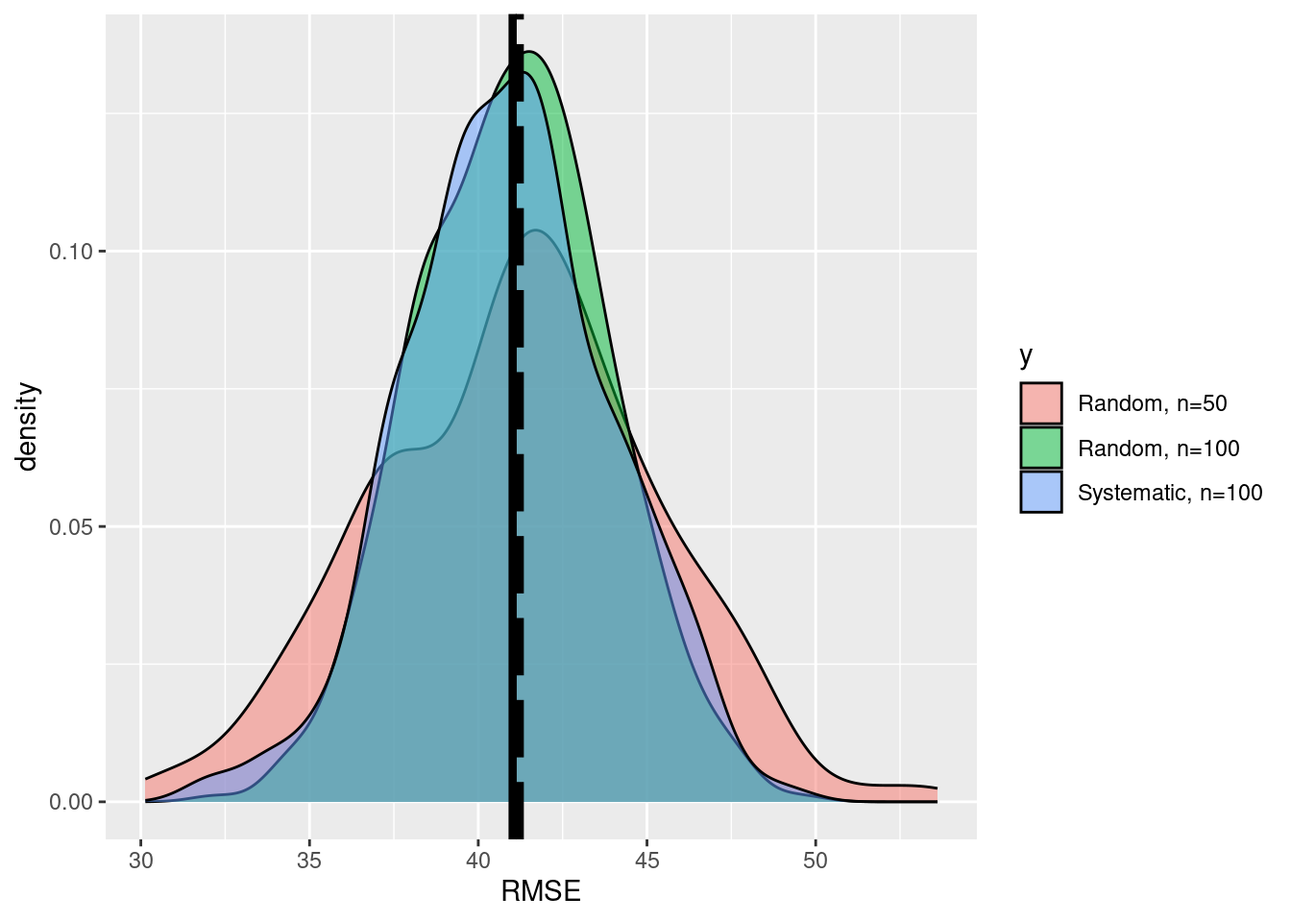
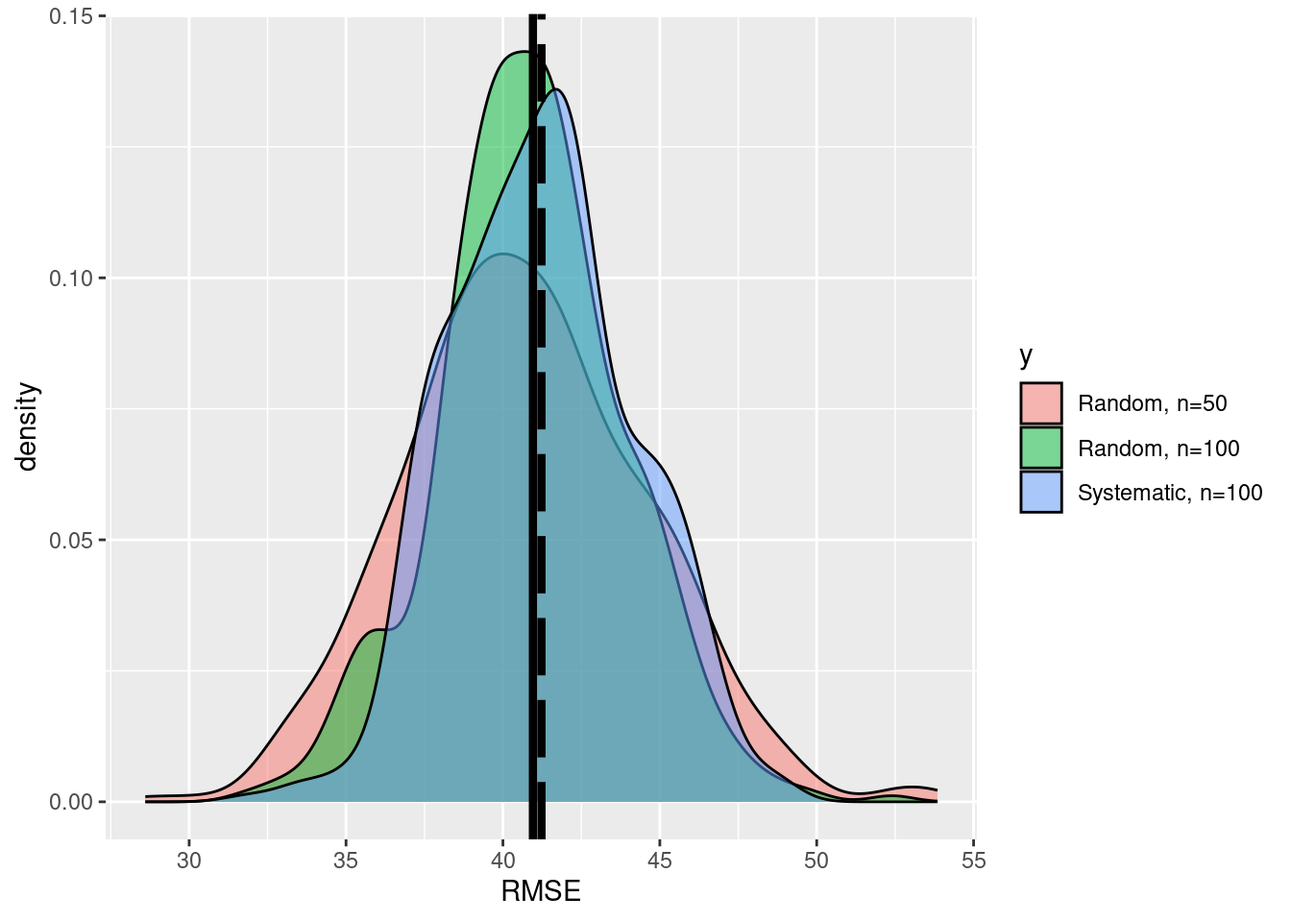
update

diff --git a/docs/paul_tutorial/02_ValidationDataCollection.html b/docs/paul_tutorial/02_ValidationDataCollection.html
@@ -294,6 +294,29 @@ pre > code.sourceCode > span > a:first-child::before { text-decoration: underlin
 
 </header>
 
+<div class="cell">
+<div class="sourceCode cell-code" id="cb1"><pre class="sourceCode r code-with-copy"><code class="sourceCode r"><span id="cb1-1"><a href="#cb1-1" aria-hidden="true" tabindex="-1"></a><span class="fu">library</span>(rmarkdown)</span>
+<span id="cb1-2"><a href="#cb1-2" aria-hidden="true" tabindex="-1"></a></span>
+<span id="cb1-3"><a href="#cb1-3" aria-hidden="true" tabindex="-1"></a><span class="fu">library</span>(sf)</span></code><button title="Copy to Clipboard" class="code-copy-button"><i class="bi"></i></button></pre></div>
+<div class="cell-output cell-output-stderr">
+<pre><code>Linking to GEOS 3.10.2, GDAL 3.4.1, PROJ 8.2.1; sf_use_s2() is TRUE</code></pre>
+</div>
+<div class="sourceCode cell-code" id="cb3"><pre class="sourceCode r code-with-copy"><code class="sourceCode r"><span id="cb3-1"><a href="#cb3-1" aria-hidden="true" tabindex="-1"></a><span class="fu">library</span>(raster)</span></code><button title="Copy to Clipboard" class="code-copy-button"><i class="bi"></i></button></pre></div>
+<div class="cell-output cell-output-stderr">
+<pre><code>Lade nötiges Paket: sp</code></pre>
+</div>
+<div class="cell-output cell-output-stderr">
+<pre><code>The legacy packages maptools, rgdal, and rgeos, underpinning the sp package,
+which was just loaded, will retire in October 2023.
+Please refer to R-spatial evolution reports for details, especially
+https://r-spatial.org/r/2023/05/15/evolution4.html.
+It may be desirable to make the sf package available;
+package maintainers should consider adding sf to Suggests:.
+The sp package is now running under evolution status 2
+     (status 2 uses the sf package in place of rgdal)</code></pre>
+</div>
+<div class="sourceCode cell-code" id="cb6"><pre class="sourceCode r code-with-copy"><code class="sourceCode r"><span id="cb6-1"><a href="#cb6-1" aria-hidden="true" tabindex="-1"></a><span class="fu">library</span>(ggplot2)</span></code><button title="Copy to Clipboard" class="code-copy-button"><i class="bi"></i></button></pre></div>
+</div>
 <section id="introduction" class="level1">
 <h1>Introduction</h1>
 <p>In this tutorial we will explore the principles of design-based sampling. The simulation part is based on a presentation of Gerad Heuveling from Wageningen University, which he gave in the OpenGeoHub Summer School[https://opengeohub.org/summer-school/ogh-summer-school-2021/].</p>
@@ -307,8 +330,8 @@ pre > code.sourceCode > span > a:first-child::before { text-decoration: underlin
 <h1>Data sets</h1>
 <p>For demonstration purposes we will work with a map of forest above ground biomass (AGB) produced by the Joint Research Center(JRC) for the European Union European Commission (Joint Research Centre (JRC) (2020) http://data.europa.eu/89h/d1fdf7aa-df33-49af-b7d5-40d226ec0da3.)</p>
 <p>To provide a synthetic example we will assume that this map (agb_pop) is an error free representation of the population. Additionally we use a second map (agb_model) compiled using a machine learning model (RF) also depicting the AGB distribution.</p>
-<div class="cell" data-hash="02_ValidationDataCollection_cache/html/import_aa19130a3a2993eade1e1589b9086cfe">
-<div class="sourceCode cell-code" id="cb1"><pre class="sourceCode r code-with-copy"><code class="sourceCode r"><span id="cb1-1"><a href="#cb1-1" aria-hidden="true" tabindex="-1"></a>np_boundary <span class="ot">=</span> <span class="fu">st_transform</span>(<span class="fu">st_read</span>(<span class="st">"data/nlp-harz_aussengrenze.gpkg"</span>),<span class="dv">25832</span>)</span></code><button title="Copy to Clipboard" class="code-copy-button"><i class="bi"></i></button></pre></div>
+<div class="cell">
+<div class="sourceCode cell-code" id="cb7"><pre class="sourceCode r code-with-copy"><code class="sourceCode r"><span id="cb7-1"><a href="#cb7-1" aria-hidden="true" tabindex="-1"></a>np_boundary <span class="ot">=</span> <span class="fu">st_transform</span>(<span class="fu">st_read</span>(<span class="st">"data/nlp-harz_aussengrenze.gpkg"</span>),<span class="dv">25832</span>)</span></code><button title="Copy to Clipboard" class="code-copy-button"><i class="bi"></i></button></pre></div>
 <div class="cell-output cell-output-stdout">
 <pre><code>Reading layer `nlp-harz_aussengrenze' from data source 
   `/home/creu/edu/EON/EON2023/paul_tutorial/data/nlp-harz_aussengrenze.gpkg' 
@@ -319,16 +342,16 @@ Dimension:     XY
 Bounding box:  xmin: 591196.6 ymin: 5725081 xmax: 619212.6 ymax: 5751232
 Projected CRS: WGS 84 / UTM zone 32N</code></pre>
 </div>
-<div class="sourceCode cell-code" id="cb3"><pre class="sourceCode r code-with-copy"><code class="sourceCode r"><span id="cb3-1"><a href="#cb3-1" aria-hidden="true" tabindex="-1"></a>agb_pop <span class="ot">&lt;-</span> <span class="fu">raster</span>(<span class="st">"data/agb_np_harz_truth.tif"</span>)</span>
-<span id="cb3-2"><a href="#cb3-2" aria-hidden="true" tabindex="-1"></a></span>
-<span id="cb3-3"><a href="#cb3-3" aria-hidden="true" tabindex="-1"></a>agb_model <span class="ot">&lt;-</span><span class="fu">raster</span>(<span class="st">"data/agb_np_harz_model.tif"</span>)</span></code><button title="Copy to Clipboard" class="code-copy-button"><i class="bi"></i></button></pre></div>
+<div class="sourceCode cell-code" id="cb9"><pre class="sourceCode r code-with-copy"><code class="sourceCode r"><span id="cb9-1"><a href="#cb9-1" aria-hidden="true" tabindex="-1"></a>agb_pop <span class="ot">&lt;-</span> <span class="fu">raster</span>(<span class="st">"data/agb_np_harz_truth.tif"</span>)</span>
+<span id="cb9-2"><a href="#cb9-2" aria-hidden="true" tabindex="-1"></a></span>
+<span id="cb9-3"><a href="#cb9-3" aria-hidden="true" tabindex="-1"></a>agb_model <span class="ot">&lt;-</span><span class="fu">raster</span>(<span class="st">"data/agb_np_harz_model.tif"</span>)</span></code><button title="Copy to Clipboard" class="code-copy-button"><i class="bi"></i></button></pre></div>
 </div>
 <p>If we assume the <span class="math inline">\(z(x_i)=\)</span> agb.pop to be an exact representation of the population we can calculate the Root mean Square Error (RMSE) as the difference between the model predictions <span class="math inline">\(\hat{z(x_i)}\)</span> and the population map with:</p>
 <p><span class="math display">\[
 RMSE = \sqrt{\frac{1}{N}\sum{(z(x_{ctor. Also today there was wind, not good for m3 i})-\hat{z}(x_{i}))^2}}
 \]</span></p>
 <div class="cell">
-<div class="sourceCode cell-code" id="cb4"><pre class="sourceCode r code-with-copy"><code class="sourceCode r"><span id="cb4-1"><a href="#cb4-1" aria-hidden="true" tabindex="-1"></a>RMSE_pop <span class="ot">=</span> <span class="fu">sqrt</span>(<span class="fu">cellStats</span>((agb_pop<span class="sc">-</span>agb_model)<span class="sc">^</span><span class="dv">2</span>, mean))</span></code><button title="Copy to Clipboard" class="code-copy-button"><i class="bi"></i></button></pre></div>
+<div class="sourceCode cell-code" id="cb10"><pre class="sourceCode r code-with-copy"><code class="sourceCode r"><span id="cb10-1"><a href="#cb10-1" aria-hidden="true" tabindex="-1"></a>RMSE_pop <span class="ot">=</span> <span class="fu">sqrt</span>(<span class="fu">cellStats</span>((agb_pop<span class="sc">-</span>agb_model)<span class="sc">^</span><span class="dv">2</span>, mean))</span></code><button title="Copy to Clipboard" class="code-copy-button"><i class="bi"></i></button></pre></div>
 </div>
 <p>By looking at the difference from the “true” AGB and the difference we get a true RMSE of <em>41.23</em> t/ha.</p>
 </section>
@@ -336,52 +359,52 @@ RMSE = \sqrt{\frac{1}{N}\sum{(z(x_{ctor. Also today there was wind, not good for
 <h1>Collect a random sample</h1>
 <p>Since we know the true RMSE, we can test if a random sample estimate has a similar RMSE. We start with a random sample with <span class="math inline">\(n=100\)</span> sample points.</p>
 <div class="cell">
-<div class="sourceCode cell-code" id="cb5"><pre class="sourceCode r code-with-copy"><code class="sourceCode r"><span id="cb5-1"><a href="#cb5-1" aria-hidden="true" tabindex="-1"></a>n<span class="ot">=</span><span class="dv">100</span></span>
-<span id="cb5-2"><a href="#cb5-2" aria-hidden="true" tabindex="-1"></a>p1 <span class="ot">=</span> <span class="fu">st_sample</span>(np_boundary,<span class="at">size=</span>n)</span>
-<span id="cb5-3"><a href="#cb5-3" aria-hidden="true" tabindex="-1"></a><span class="fu">plot</span>(<span class="fu">st_geometry</span>(np_boundary))</span>
-<span id="cb5-4"><a href="#cb5-4" aria-hidden="true" tabindex="-1"></a><span class="fu">plot</span>(p1,<span class="at">add=</span><span class="cn">TRUE</span>,<span class="at">pch=</span><span class="dv">1</span>)</span></code><button title="Copy to Clipboard" class="code-copy-button"><i class="bi"></i></button></pre></div>
+<div class="sourceCode cell-code" id="cb11"><pre class="sourceCode r code-with-copy"><code class="sourceCode r"><span id="cb11-1"><a href="#cb11-1" aria-hidden="true" tabindex="-1"></a>n<span class="ot">=</span><span class="dv">100</span></span>
+<span id="cb11-2"><a href="#cb11-2" aria-hidden="true" tabindex="-1"></a>p1 <span class="ot">=</span> <span class="fu">st_sample</span>(np_boundary,<span class="at">size=</span>n)</span>
+<span id="cb11-3"><a href="#cb11-3" aria-hidden="true" tabindex="-1"></a><span class="fu">plot</span>(<span class="fu">st_geometry</span>(np_boundary))</span>
+<span id="cb11-4"><a href="#cb11-4" aria-hidden="true" tabindex="-1"></a><span class="fu">plot</span>(p1,<span class="at">add=</span><span class="cn">TRUE</span>,<span class="at">pch=</span><span class="dv">1</span>)</span></code><button title="Copy to Clipboard" class="code-copy-button"><i class="bi"></i></button></pre></div>
 <div class="cell-output-display">
 <p><img src="02_ValidationDataCollection_files/figure-html/RMSEest-1.png" class="img-fluid" width="672"></p>
 </div>
 </div>
 <p>We can now extract the population values and the model values at the sample locations and calculate the RMSE for all sample points.</p>
 <div class="cell">
-<div class="sourceCode cell-code" id="cb6"><pre class="sourceCode r code-with-copy"><code class="sourceCode r"><span id="cb6-1"><a href="#cb6-1" aria-hidden="true" tabindex="-1"></a>sample <span class="ot">&lt;-</span> raster<span class="sc">::</span><span class="fu">extract</span>((agb_pop<span class="sc">-</span>agb_model),<span class="fu">as_Spatial</span>(p1))</span>
-<span id="cb6-2"><a href="#cb6-2" aria-hidden="true" tabindex="-1"></a>RMSE_est <span class="ot">&lt;-</span> <span class="fu">sqrt</span>(<span class="fu">mean</span>((sample)<span class="sc">^</span><span class="dv">2</span>,<span class="at">na.rm=</span>T))</span></code><button title="Copy to Clipboard" class="code-copy-button"><i class="bi"></i></button></pre></div>
+<div class="sourceCode cell-code" id="cb12"><pre class="sourceCode r code-with-copy"><code class="sourceCode r"><span id="cb12-1"><a href="#cb12-1" aria-hidden="true" tabindex="-1"></a>sample <span class="ot">&lt;-</span> raster<span class="sc">::</span><span class="fu">extract</span>((agb_pop<span class="sc">-</span>agb_model),<span class="fu">as_Spatial</span>(p1))</span>
+<span id="cb12-2"><a href="#cb12-2" aria-hidden="true" tabindex="-1"></a>RMSE_est <span class="ot">&lt;-</span> <span class="fu">sqrt</span>(<span class="fu">mean</span>((sample)<span class="sc">^</span><span class="dv">2</span>,<span class="at">na.rm=</span>T))</span></code><button title="Copy to Clipboard" class="code-copy-button"><i class="bi"></i></button></pre></div>
 </div>
-<p>The random sample estimates the RMSE as 44.96.</p>
+<p>The random sample estimates the RMSE as 35.63.</p>
 <p>But is this an unbiased estimate?</p>
 </section>
 <section id="simulation-of-many-random-samples" class="level1">
 <h1>Simulation of many random samples</h1>
 <p>To check if our sample based estimates are unbiased we will repeat the sampling <span class="math inline">\(k\)</span> times.</p>
-<div class="cell" data-hash="02_ValidationDataCollection_cache/html/simulation_12701a96588eb107bbbbbcc25c397d8d">
-<div class="sourceCode cell-code" id="cb7"><pre class="sourceCode r code-with-copy"><code class="sourceCode r"><span id="cb7-1"><a href="#cb7-1" aria-hidden="true" tabindex="-1"></a>dif <span class="ot">&lt;-</span> <span class="fu">as</span>((agb_pop<span class="sc">-</span>agb_model), <span class="st">'SpatialGridDataFrame'</span>)</span>
-<span id="cb7-2"><a href="#cb7-2" aria-hidden="true" tabindex="-1"></a>seed<span class="ot">&lt;-</span> <span class="dv">12324</span></span>
-<span id="cb7-3"><a href="#cb7-3" aria-hidden="true" tabindex="-1"></a></span>
-<span id="cb7-4"><a href="#cb7-4" aria-hidden="true" tabindex="-1"></a></span>
-<span id="cb7-5"><a href="#cb7-5" aria-hidden="true" tabindex="-1"></a>k <span class="ot">&lt;-</span> <span class="dv">500</span></span>
-<span id="cb7-6"><a href="#cb7-6" aria-hidden="true" tabindex="-1"></a>n <span class="ot">&lt;-</span> <span class="dv">50</span></span>
-<span id="cb7-7"><a href="#cb7-7" aria-hidden="true" tabindex="-1"></a>RMSE <span class="ot">&lt;-</span> <span class="fu">rep</span>(<span class="dv">0</span>,k) </span>
-<span id="cb7-8"><a href="#cb7-8" aria-hidden="true" tabindex="-1"></a></span>
-<span id="cb7-9"><a href="#cb7-9" aria-hidden="true" tabindex="-1"></a><span class="cf">for</span> (i <span class="cf">in</span> <span class="dv">1</span><span class="sc">:</span>k) {</span>
-<span id="cb7-10"><a href="#cb7-10" aria-hidden="true" tabindex="-1"></a>  <span class="co">#print(i)</span></span>
-<span id="cb7-11"><a href="#cb7-11" aria-hidden="true" tabindex="-1"></a>  p1 <span class="ot">=</span> <span class="fu">spsample</span>(<span class="fu">as_Spatial</span>(np_boundary),<span class="at">n=</span>n,<span class="at">type=</span><span class="st">'random'</span>)</span>
-<span id="cb7-12"><a href="#cb7-12" aria-hidden="true" tabindex="-1"></a>  <span class="fu">crs</span>(p1)<span class="ot">&lt;-</span><span class="fu">crs</span>(dif)</span>
-<span id="cb7-13"><a href="#cb7-13" aria-hidden="true" tabindex="-1"></a>  <span class="co">#sample &lt;- raster::extract((agb_pop-agb_model),p1)</span></span>
-<span id="cb7-14"><a href="#cb7-14" aria-hidden="true" tabindex="-1"></a>  error<span class="ot">&lt;-</span><span class="fu">over</span>(p1,dif)<span class="sc">$</span>layer</span>
-<span id="cb7-15"><a href="#cb7-15" aria-hidden="true" tabindex="-1"></a>  RMSE[i] <span class="ot">&lt;-</span> <span class="fu">sqrt</span>(<span class="fu">mean</span>((error)<span class="sc">^</span><span class="dv">2</span>,<span class="at">na.rm=</span>T))</span>
-<span id="cb7-16"><a href="#cb7-16" aria-hidden="true" tabindex="-1"></a>}</span>
-<span id="cb7-17"><a href="#cb7-17" aria-hidden="true" tabindex="-1"></a></span>
-<span id="cb7-18"><a href="#cb7-18" aria-hidden="true" tabindex="-1"></a>df <span class="ot">&lt;-</span> <span class="fu">data.frame</span>(<span class="at">x=</span>RMSE, <span class="at">y=</span><span class="fu">rep</span>(<span class="st">'a'</span>,k))</span>
-<span id="cb7-19"><a href="#cb7-19" aria-hidden="true" tabindex="-1"></a></span>
-<span id="cb7-20"><a href="#cb7-20" aria-hidden="true" tabindex="-1"></a><span class="fu">ggplot</span>(<span class="at">data=</span>df,<span class="fu">aes</span>(<span class="at">x=</span>x))<span class="sc">+</span></span>
-<span id="cb7-21"><a href="#cb7-21" aria-hidden="true" tabindex="-1"></a>  <span class="fu">geom_density</span>(<span class="at">data=</span><span class="fu">subset</span>(df,y<span class="sc">==</span><span class="st">'a'</span>),</span>
-<span id="cb7-22"><a href="#cb7-22" aria-hidden="true" tabindex="-1"></a>               <span class="at">fill=</span><span class="st">'blue'</span>, <span class="at">alpha=</span><span class="fl">0.5</span>)<span class="sc">+</span></span>
-<span id="cb7-23"><a href="#cb7-23" aria-hidden="true" tabindex="-1"></a>  <span class="fu">xlab</span>(<span class="st">'RMSE'</span>)<span class="sc">+</span><span class="fu">geom_vline</span>(<span class="at">xintercept=</span>RMSE_pop,<span class="at">linewidth=</span><span class="fl">1.5</span>,</span>
-<span id="cb7-24"><a href="#cb7-24" aria-hidden="true" tabindex="-1"></a>                          <span class="at">color =</span><span class="st">'black'</span>, <span class="at">linetype=</span><span class="st">'longdash'</span>)<span class="sc">+</span></span>
-<span id="cb7-25"><a href="#cb7-25" aria-hidden="true" tabindex="-1"></a>  <span class="fu">geom_vline</span>(<span class="at">xintercept=</span><span class="fu">mean</span>(df<span class="sc">$</span>x),<span class="at">size=</span><span class="fl">1.5</span>,</span>
-<span id="cb7-26"><a href="#cb7-26" aria-hidden="true" tabindex="-1"></a>                          <span class="at">color =</span><span class="st">'black'</span>)</span></code><button title="Copy to Clipboard" class="code-copy-button"><i class="bi"></i></button></pre></div>
+<div class="cell">
+<div class="sourceCode cell-code" id="cb13"><pre class="sourceCode r code-with-copy"><code class="sourceCode r"><span id="cb13-1"><a href="#cb13-1" aria-hidden="true" tabindex="-1"></a>dif <span class="ot">&lt;-</span> <span class="fu">as</span>((agb_pop<span class="sc">-</span>agb_model), <span class="st">'SpatialGridDataFrame'</span>)</span>
+<span id="cb13-2"><a href="#cb13-2" aria-hidden="true" tabindex="-1"></a>seed<span class="ot">&lt;-</span> <span class="dv">12324</span></span>
+<span id="cb13-3"><a href="#cb13-3" aria-hidden="true" tabindex="-1"></a></span>
+<span id="cb13-4"><a href="#cb13-4" aria-hidden="true" tabindex="-1"></a></span>
+<span id="cb13-5"><a href="#cb13-5" aria-hidden="true" tabindex="-1"></a>k <span class="ot">&lt;-</span> <span class="dv">500</span></span>
+<span id="cb13-6"><a href="#cb13-6" aria-hidden="true" tabindex="-1"></a>n <span class="ot">&lt;-</span> <span class="dv">50</span></span>
+<span id="cb13-7"><a href="#cb13-7" aria-hidden="true" tabindex="-1"></a>RMSE <span class="ot">&lt;-</span> <span class="fu">rep</span>(<span class="dv">0</span>,k) </span>
+<span id="cb13-8"><a href="#cb13-8" aria-hidden="true" tabindex="-1"></a></span>
+<span id="cb13-9"><a href="#cb13-9" aria-hidden="true" tabindex="-1"></a><span class="cf">for</span> (i <span class="cf">in</span> <span class="dv">1</span><span class="sc">:</span>k) {</span>
+<span id="cb13-10"><a href="#cb13-10" aria-hidden="true" tabindex="-1"></a>  <span class="co">#print(i)</span></span>
+<span id="cb13-11"><a href="#cb13-11" aria-hidden="true" tabindex="-1"></a>  p1 <span class="ot">=</span> <span class="fu">spsample</span>(<span class="fu">as_Spatial</span>(np_boundary),<span class="at">n=</span>n,<span class="at">type=</span><span class="st">'random'</span>)</span>
+<span id="cb13-12"><a href="#cb13-12" aria-hidden="true" tabindex="-1"></a>  <span class="fu">crs</span>(p1)<span class="ot">&lt;-</span><span class="fu">crs</span>(dif)</span>
+<span id="cb13-13"><a href="#cb13-13" aria-hidden="true" tabindex="-1"></a>  <span class="co">#sample &lt;- raster::extract((agb_pop-agb_model),p1)</span></span>
+<span id="cb13-14"><a href="#cb13-14" aria-hidden="true" tabindex="-1"></a>  error<span class="ot">&lt;-</span><span class="fu">over</span>(p1,dif)<span class="sc">$</span>layer</span>
+<span id="cb13-15"><a href="#cb13-15" aria-hidden="true" tabindex="-1"></a>  RMSE[i] <span class="ot">&lt;-</span> <span class="fu">sqrt</span>(<span class="fu">mean</span>((error)<span class="sc">^</span><span class="dv">2</span>,<span class="at">na.rm=</span>T))</span>
+<span id="cb13-16"><a href="#cb13-16" aria-hidden="true" tabindex="-1"></a>}</span>
+<span id="cb13-17"><a href="#cb13-17" aria-hidden="true" tabindex="-1"></a></span>
+<span id="cb13-18"><a href="#cb13-18" aria-hidden="true" tabindex="-1"></a>df <span class="ot">&lt;-</span> <span class="fu">data.frame</span>(<span class="at">x=</span>RMSE, <span class="at">y=</span><span class="fu">rep</span>(<span class="st">'a'</span>,k))</span>
+<span id="cb13-19"><a href="#cb13-19" aria-hidden="true" tabindex="-1"></a></span>
+<span id="cb13-20"><a href="#cb13-20" aria-hidden="true" tabindex="-1"></a><span class="fu">ggplot</span>(<span class="at">data=</span>df,<span class="fu">aes</span>(<span class="at">x=</span>x))<span class="sc">+</span></span>
+<span id="cb13-21"><a href="#cb13-21" aria-hidden="true" tabindex="-1"></a>  <span class="fu">geom_density</span>(<span class="at">data=</span><span class="fu">subset</span>(df,y<span class="sc">==</span><span class="st">'a'</span>),</span>
+<span id="cb13-22"><a href="#cb13-22" aria-hidden="true" tabindex="-1"></a>               <span class="at">fill=</span><span class="st">'blue'</span>, <span class="at">alpha=</span><span class="fl">0.5</span>)<span class="sc">+</span></span>
+<span id="cb13-23"><a href="#cb13-23" aria-hidden="true" tabindex="-1"></a>  <span class="fu">xlab</span>(<span class="st">'RMSE'</span>)<span class="sc">+</span><span class="fu">geom_vline</span>(<span class="at">xintercept=</span>RMSE_pop,<span class="at">linewidth=</span><span class="fl">1.5</span>,</span>
+<span id="cb13-24"><a href="#cb13-24" aria-hidden="true" tabindex="-1"></a>                          <span class="at">color =</span><span class="st">'black'</span>, <span class="at">linetype=</span><span class="st">'longdash'</span>)<span class="sc">+</span></span>
+<span id="cb13-25"><a href="#cb13-25" aria-hidden="true" tabindex="-1"></a>  <span class="fu">geom_vline</span>(<span class="at">xintercept=</span><span class="fu">mean</span>(df<span class="sc">$</span>x),<span class="at">size=</span><span class="fl">1.5</span>,</span>
+<span id="cb13-26"><a href="#cb13-26" aria-hidden="true" tabindex="-1"></a>                          <span class="at">color =</span><span class="st">'black'</span>)</span></code><button title="Copy to Clipboard" class="code-copy-button"><i class="bi"></i></button></pre></div>
 <div class="cell-output cell-output-stderr">
 <pre><code>Warning: Using `size` aesthetic for lines was deprecated in ggplot2 3.4.0.
 ℹ Please use `linewidth` instead.</code></pre>
@@ -393,42 +416,38 @@ RMSE = \sqrt{\frac{1}{N}\sum{(z(x_{ctor. Also today there was wind, not good for
 <p>We see that the true RMSE and the mean of the <span class="math inline">\(k\)</span> simulation runs are almost equal. Thus, we can assume an unbiased estimate of the RMSE.</p>
 <p>But how does the sample size <span class="math inline">\(n\)</span> affects the accuracy?</p>
 <div class="cell">
-<div class="sourceCode cell-code" id="cb9"><pre class="sourceCode r code-with-copy"><code class="sourceCode r"><span id="cb9-1"><a href="#cb9-1" aria-hidden="true" tabindex="-1"></a>k <span class="ot">&lt;-</span> <span class="dv">500</span></span>
-<span id="cb9-2"><a href="#cb9-2" aria-hidden="true" tabindex="-1"></a>n <span class="ot">&lt;-</span> <span class="dv">100</span></span>
-<span id="cb9-3"><a href="#cb9-3" aria-hidden="true" tabindex="-1"></a>RMSE_2 <span class="ot">&lt;-</span> <span class="fu">rep</span>(<span class="dv">0</span>,k) </span>
-<span id="cb9-4"><a href="#cb9-4" aria-hidden="true" tabindex="-1"></a></span>
-<span id="cb9-5"><a href="#cb9-5" aria-hidden="true" tabindex="-1"></a><span class="cf">for</span> (i <span class="cf">in</span> <span class="dv">1</span><span class="sc">:</span>k) {</span>
-<span id="cb9-6"><a href="#cb9-6" aria-hidden="true" tabindex="-1"></a>  <span class="co">#print(i)</span></span>
-<span id="cb9-7"><a href="#cb9-7" aria-hidden="true" tabindex="-1"></a>  p1 <span class="ot">=</span> <span class="fu">spsample</span>(<span class="fu">as_Spatial</span>(np_boundary),<span class="at">n=</span>n,<span class="at">type=</span><span class="st">'random'</span>)</span>
-<span id="cb9-8"><a href="#cb9-8" aria-hidden="true" tabindex="-1"></a>  <span class="fu">crs</span>(p1)<span class="ot">&lt;-</span><span class="fu">crs</span>(dif)</span>
-<span id="cb9-9"><a href="#cb9-9" aria-hidden="true" tabindex="-1"></a>  <span class="co">#sample &lt;- raster::extract((agb_pop-agb_model),p1)</span></span>
-<span id="cb9-10"><a href="#cb9-10" aria-hidden="true" tabindex="-1"></a>  error<span class="ot">&lt;-</span><span class="fu">over</span>(p1,dif)<span class="sc">$</span>layer</span>
-<span id="cb9-11"><a href="#cb9-11" aria-hidden="true" tabindex="-1"></a>  RMSE_2[i] <span class="ot">&lt;-</span> <span class="fu">sqrt</span>(<span class="fu">mean</span>((error)<span class="sc">^</span><span class="dv">2</span>,<span class="at">na.rm=</span>T))</span>
-<span id="cb9-12"><a href="#cb9-12" aria-hidden="true" tabindex="-1"></a>}</span>
-<span id="cb9-13"><a href="#cb9-13" aria-hidden="true" tabindex="-1"></a></span>
-<span id="cb9-14"><a href="#cb9-14" aria-hidden="true" tabindex="-1"></a>df_2 <span class="ot">&lt;-</span> <span class="fu">data.frame</span>(<span class="at">x=</span>RMSE_2, <span class="at">y=</span><span class="fu">rep</span>(<span class="st">'b'</span>,k))</span>
-<span id="cb9-15"><a href="#cb9-15" aria-hidden="true" tabindex="-1"></a>df<span class="ot">&lt;-</span><span class="fu">rbind</span>(df,df_2)</span>
-<span id="cb9-16"><a href="#cb9-16" aria-hidden="true" tabindex="-1"></a></span>
-<span id="cb9-17"><a href="#cb9-17" aria-hidden="true" tabindex="-1"></a><span class="fu">ggplot</span>(<span class="at">data=</span>df,<span class="fu">aes</span>(<span class="at">x=</span>x,<span class="at">fill=</span>y))<span class="sc">+</span></span>
-<span id="cb9-18"><a href="#cb9-18" aria-hidden="true" tabindex="-1"></a>  <span class="fu">geom_density</span>(<span class="at">alpha=</span><span class="fl">0.5</span>)<span class="sc">+</span></span>
-<span id="cb9-19"><a href="#cb9-19" aria-hidden="true" tabindex="-1"></a>  <span class="fu">scale_fill_discrete</span>(<span class="at">labels=</span><span class="fu">c</span>(<span class="st">'Random, n=50'</span>, <span class="st">'Random, n=100'</span>))<span class="sc">+</span></span>
-<span id="cb9-20"><a href="#cb9-20" aria-hidden="true" tabindex="-1"></a>  <span class="fu">xlab</span>(<span class="st">'RMSE'</span>)<span class="sc">+</span><span class="fu">geom_vline</span>(<span class="at">xintercept=</span>RMSE_pop,<span class="at">size=</span><span class="fl">1.5</span>,</span>
-<span id="cb9-21"><a href="#cb9-21" aria-hidden="true" tabindex="-1"></a>                          <span class="at">color =</span><span class="st">'black'</span>, <span class="at">linetype=</span><span class="st">'longdash'</span>)<span class="sc">+</span></span>
-<span id="cb9-22"><a href="#cb9-22" aria-hidden="true" tabindex="-1"></a>  <span class="fu">geom_vline</span>(<span class="at">xintercept=</span><span class="fu">mean</span>(df<span class="sc">$</span>x),<span class="at">size=</span><span class="fl">1.5</span>,</span>
-<span id="cb9-23"><a href="#cb9-23" aria-hidden="true" tabindex="-1"></a>                          <span class="at">color =</span><span class="st">'black'</span>)</span></code><button title="Copy to Clipboard" class="code-copy-button"><i class="bi"></i></button></pre></div>
-<div class="cell-output cell-output-stderr">
-<pre><code>Warning: Using `size` aesthetic for lines was deprecated in ggplot2 3.4.0.
-ℹ Please use `linewidth` instead.</code></pre>
-</div>
+<div class="sourceCode cell-code" id="cb15"><pre class="sourceCode r code-with-copy"><code class="sourceCode r"><span id="cb15-1"><a href="#cb15-1" aria-hidden="true" tabindex="-1"></a>k <span class="ot">&lt;-</span> <span class="dv">500</span></span>
+<span id="cb15-2"><a href="#cb15-2" aria-hidden="true" tabindex="-1"></a>n <span class="ot">&lt;-</span> <span class="dv">100</span></span>
+<span id="cb15-3"><a href="#cb15-3" aria-hidden="true" tabindex="-1"></a>RMSE_2 <span class="ot">&lt;-</span> <span class="fu">rep</span>(<span class="dv">0</span>,k) </span>
+<span id="cb15-4"><a href="#cb15-4" aria-hidden="true" tabindex="-1"></a></span>
+<span id="cb15-5"><a href="#cb15-5" aria-hidden="true" tabindex="-1"></a><span class="cf">for</span> (i <span class="cf">in</span> <span class="dv">1</span><span class="sc">:</span>k) {</span>
+<span id="cb15-6"><a href="#cb15-6" aria-hidden="true" tabindex="-1"></a>  <span class="co">#print(i)</span></span>
+<span id="cb15-7"><a href="#cb15-7" aria-hidden="true" tabindex="-1"></a>  p1 <span class="ot">=</span> <span class="fu">spsample</span>(<span class="fu">as_Spatial</span>(np_boundary),<span class="at">n=</span>n,<span class="at">type=</span><span class="st">'random'</span>)</span>
+<span id="cb15-8"><a href="#cb15-8" aria-hidden="true" tabindex="-1"></a>  <span class="fu">crs</span>(p1)<span class="ot">&lt;-</span><span class="fu">crs</span>(dif)</span>
+<span id="cb15-9"><a href="#cb15-9" aria-hidden="true" tabindex="-1"></a>  <span class="co">#sample &lt;- raster::extract((agb_pop-agb_model),p1)</span></span>
+<span id="cb15-10"><a href="#cb15-10" aria-hidden="true" tabindex="-1"></a>  error<span class="ot">&lt;-</span><span class="fu">over</span>(p1,dif)<span class="sc">$</span>layer</span>
+<span id="cb15-11"><a href="#cb15-11" aria-hidden="true" tabindex="-1"></a>  RMSE_2[i] <span class="ot">&lt;-</span> <span class="fu">sqrt</span>(<span class="fu">mean</span>((error)<span class="sc">^</span><span class="dv">2</span>,<span class="at">na.rm=</span>T))</span>
+<span id="cb15-12"><a href="#cb15-12" aria-hidden="true" tabindex="-1"></a>}</span>
+<span id="cb15-13"><a href="#cb15-13" aria-hidden="true" tabindex="-1"></a></span>
+<span id="cb15-14"><a href="#cb15-14" aria-hidden="true" tabindex="-1"></a>df_2 <span class="ot">&lt;-</span> <span class="fu">data.frame</span>(<span class="at">x=</span>RMSE_2, <span class="at">y=</span><span class="fu">rep</span>(<span class="st">'b'</span>,k))</span>
+<span id="cb15-15"><a href="#cb15-15" aria-hidden="true" tabindex="-1"></a>df<span class="ot">&lt;-</span><span class="fu">rbind</span>(df,df_2)</span>
+<span id="cb15-16"><a href="#cb15-16" aria-hidden="true" tabindex="-1"></a></span>
+<span id="cb15-17"><a href="#cb15-17" aria-hidden="true" tabindex="-1"></a><span class="fu">ggplot</span>(<span class="at">data=</span>df,<span class="fu">aes</span>(<span class="at">x=</span>x,<span class="at">fill=</span>y))<span class="sc">+</span></span>
+<span id="cb15-18"><a href="#cb15-18" aria-hidden="true" tabindex="-1"></a>  <span class="fu">geom_density</span>(<span class="at">alpha=</span><span class="fl">0.5</span>)<span class="sc">+</span></span>
+<span id="cb15-19"><a href="#cb15-19" aria-hidden="true" tabindex="-1"></a>  <span class="fu">scale_fill_discrete</span>(<span class="at">labels=</span><span class="fu">c</span>(<span class="st">'Random, n=50'</span>, <span class="st">'Random, n=100'</span>))<span class="sc">+</span></span>
+<span id="cb15-20"><a href="#cb15-20" aria-hidden="true" tabindex="-1"></a>  <span class="fu">xlab</span>(<span class="st">'RMSE'</span>)<span class="sc">+</span><span class="fu">geom_vline</span>(<span class="at">xintercept=</span>RMSE_pop,<span class="at">size=</span><span class="fl">1.5</span>,</span>
+<span id="cb15-21"><a href="#cb15-21" aria-hidden="true" tabindex="-1"></a>                          <span class="at">color =</span><span class="st">'black'</span>, <span class="at">linetype=</span><span class="st">'longdash'</span>)<span class="sc">+</span></span>
+<span id="cb15-22"><a href="#cb15-22" aria-hidden="true" tabindex="-1"></a>  <span class="fu">geom_vline</span>(<span class="at">xintercept=</span><span class="fu">mean</span>(df<span class="sc">$</span>x),<span class="at">size=</span><span class="fl">1.5</span>,</span>
+<span id="cb15-23"><a href="#cb15-23" aria-hidden="true" tabindex="-1"></a>                          <span class="at">color =</span><span class="st">'black'</span>)</span></code><button title="Copy to Clipboard" class="code-copy-button"><i class="bi"></i></button></pre></div>
 <div class="cell-output-display">
 <p><img src="02_ValidationDataCollection_files/figure-html/Simulation2-1.png" class="img-fluid" width="672"></p>
 </div>
 </div>
 <p>We see that the precision of the esimtates is increased. How much did the uncertainty decrease when we increase the sample size from <span class="math inline">\(n=50\)</span> to <span class="math inline">\(n=100\)</span>?</p>
 <div class="cell">
-<div class="sourceCode cell-code" id="cb11"><pre class="sourceCode r code-with-copy"><code class="sourceCode r"><span id="cb11-1"><a href="#cb11-1" aria-hidden="true" tabindex="-1"></a><span class="fu">sd</span>(RMSE_2)<span class="sc">/</span><span class="fu">sd</span>(RMSE)</span></code><button title="Copy to Clipboard" class="code-copy-button"><i class="bi"></i></button></pre></div>
+<div class="sourceCode cell-code" id="cb16"><pre class="sourceCode r code-with-copy"><code class="sourceCode r"><span id="cb16-1"><a href="#cb16-1" aria-hidden="true" tabindex="-1"></a><span class="fu">sd</span>(RMSE_2)<span class="sc">/</span><span class="fu">sd</span>(RMSE)</span></code><button title="Copy to Clipboard" class="code-copy-button"><i class="bi"></i></button></pre></div>
 <div class="cell-output cell-output-stdout">
-<pre><code>[1] 0.6736076</code></pre>
+<pre><code>[1] 0.7752871</code></pre>
 </div>
 </div>
 </section>
@@ -439,38 +458,38 @@ RMSE = \sqrt{\frac{1}{N}\sum{(z(x_{ctor. Also today there was wind, not good for
 <li>Easy to establish and to document</li>
 <li>Ensures a balanced spatial coverage</li>
 </ul>
-<div class="cell" data-hash="02_ValidationDataCollection_cache/html/systematicSample_5bd35c489266bdc847dcb7c3f2bee6c7">
-<div class="sourceCode cell-code" id="cb13"><pre class="sourceCode r code-with-copy"><code class="sourceCode r"><span id="cb13-1"><a href="#cb13-1" aria-hidden="true" tabindex="-1"></a>p1 <span class="ot">=</span> <span class="fu">spsample</span>(<span class="fu">as_Spatial</span>(np_boundary),<span class="at">n=</span>n,<span class="at">type=</span><span class="st">'regular'</span>)</span>
-<span id="cb13-2"><a href="#cb13-2" aria-hidden="true" tabindex="-1"></a></span>
-<span id="cb13-3"><a href="#cb13-3" aria-hidden="true" tabindex="-1"></a><span class="fu">plot</span>(np_boundary<span class="sc">$</span>geom)</span>
-<span id="cb13-4"><a href="#cb13-4" aria-hidden="true" tabindex="-1"></a><span class="fu">plot</span>(p1, <span class="at">add=</span>T)</span></code><button title="Copy to Clipboard" class="code-copy-button"><i class="bi"></i></button></pre></div>
+<div class="cell">
+<div class="sourceCode cell-code" id="cb18"><pre class="sourceCode r code-with-copy"><code class="sourceCode r"><span id="cb18-1"><a href="#cb18-1" aria-hidden="true" tabindex="-1"></a>p1 <span class="ot">=</span> <span class="fu">spsample</span>(<span class="fu">as_Spatial</span>(np_boundary),<span class="at">n=</span>n,<span class="at">type=</span><span class="st">'regular'</span>)</span>
+<span id="cb18-2"><a href="#cb18-2" aria-hidden="true" tabindex="-1"></a></span>
+<span id="cb18-3"><a href="#cb18-3" aria-hidden="true" tabindex="-1"></a><span class="fu">plot</span>(np_boundary<span class="sc">$</span>geom)</span>
+<span id="cb18-4"><a href="#cb18-4" aria-hidden="true" tabindex="-1"></a><span class="fu">plot</span>(p1, <span class="at">add=</span>T)</span></code><button title="Copy to Clipboard" class="code-copy-button"><i class="bi"></i></button></pre></div>
 <div class="cell-output-display">
 <p><img src="02_ValidationDataCollection_files/figure-html/systematicSample-1.png" class="img-fluid" width="672"></p>
 </div>
 </div>
-<div class="cell" data-hash="02_ValidationDataCollection_cache/html/SystematicSimlation_4e1ce7578c27c25cdfea8749fa1df680">
-<div class="sourceCode cell-code" id="cb14"><pre class="sourceCode r code-with-copy"><code class="sourceCode r"><span id="cb14-1"><a href="#cb14-1" aria-hidden="true" tabindex="-1"></a>k <span class="ot">&lt;-</span> <span class="dv">500</span></span>
-<span id="cb14-2"><a href="#cb14-2" aria-hidden="true" tabindex="-1"></a>n <span class="ot">&lt;-</span> <span class="dv">100</span></span>
-<span id="cb14-3"><a href="#cb14-3" aria-hidden="true" tabindex="-1"></a>RMSE_3 <span class="ot">&lt;-</span> <span class="fu">rep</span>(<span class="dv">0</span>,k) </span>
-<span id="cb14-4"><a href="#cb14-4" aria-hidden="true" tabindex="-1"></a></span>
-<span id="cb14-5"><a href="#cb14-5" aria-hidden="true" tabindex="-1"></a><span class="cf">for</span> (i <span class="cf">in</span> <span class="dv">1</span><span class="sc">:</span>k) {</span>
-<span id="cb14-6"><a href="#cb14-6" aria-hidden="true" tabindex="-1"></a>  <span class="co">#print(i)</span></span>
-<span id="cb14-7"><a href="#cb14-7" aria-hidden="true" tabindex="-1"></a>  p1 <span class="ot">=</span> <span class="fu">spsample</span>(<span class="fu">as_Spatial</span>(np_boundary),<span class="at">n=</span>n,<span class="at">type=</span><span class="st">'regular'</span>)</span>
-<span id="cb14-8"><a href="#cb14-8" aria-hidden="true" tabindex="-1"></a>  <span class="fu">crs</span>(p1)<span class="ot">&lt;-</span><span class="fu">crs</span>(dif)</span>
-<span id="cb14-9"><a href="#cb14-9" aria-hidden="true" tabindex="-1"></a>  error<span class="ot">&lt;-</span><span class="fu">over</span>(p1,dif)<span class="sc">$</span>layer</span>
-<span id="cb14-10"><a href="#cb14-10" aria-hidden="true" tabindex="-1"></a>  RMSE_3[i] <span class="ot">&lt;-</span> <span class="fu">sqrt</span>(<span class="fu">mean</span>((error)<span class="sc">^</span><span class="dv">2</span>,<span class="at">na.rm=</span>T))</span>
-<span id="cb14-11"><a href="#cb14-11" aria-hidden="true" tabindex="-1"></a>}</span>
-<span id="cb14-12"><a href="#cb14-12" aria-hidden="true" tabindex="-1"></a></span>
-<span id="cb14-13"><a href="#cb14-13" aria-hidden="true" tabindex="-1"></a>df_3<span class="ot">&lt;-</span> <span class="fu">data.frame</span>(<span class="at">x=</span>RMSE_3, <span class="at">y=</span><span class="fu">rep</span>(<span class="st">'c'</span>,k))</span>
-<span id="cb14-14"><a href="#cb14-14" aria-hidden="true" tabindex="-1"></a>df<span class="ot">&lt;-</span><span class="fu">rbind</span>(df,df_3)</span>
-<span id="cb14-15"><a href="#cb14-15" aria-hidden="true" tabindex="-1"></a></span>
-<span id="cb14-16"><a href="#cb14-16" aria-hidden="true" tabindex="-1"></a><span class="fu">ggplot</span>(<span class="at">data=</span>df,<span class="fu">aes</span>(<span class="at">x=</span>x, <span class="at">fill=</span>y))<span class="sc">+</span></span>
-<span id="cb14-17"><a href="#cb14-17" aria-hidden="true" tabindex="-1"></a>  <span class="fu">geom_density</span>(<span class="at">alpha=</span><span class="fl">0.5</span>)<span class="sc">+</span></span>
-<span id="cb14-18"><a href="#cb14-18" aria-hidden="true" tabindex="-1"></a>  <span class="fu">scale_fill_discrete</span>(<span class="at">labels=</span><span class="fu">c</span>(<span class="st">'Random, n=50'</span>, <span class="st">'Random, n=100'</span>,<span class="st">'Systematic, n=100'</span>))<span class="sc">+</span></span>
-<span id="cb14-19"><a href="#cb14-19" aria-hidden="true" tabindex="-1"></a>  <span class="fu">xlab</span>(<span class="st">'RMSE'</span>)<span class="sc">+</span><span class="fu">geom_vline</span>(<span class="at">xintercept=</span>RMSE_pop,<span class="at">size=</span><span class="fl">1.5</span>,</span>
-<span id="cb14-20"><a href="#cb14-20" aria-hidden="true" tabindex="-1"></a>                          <span class="at">color =</span><span class="st">'black'</span>, <span class="at">linetype=</span><span class="st">'longdash'</span>)<span class="sc">+</span></span>
-<span id="cb14-21"><a href="#cb14-21" aria-hidden="true" tabindex="-1"></a>  <span class="fu">geom_vline</span>(<span class="at">xintercept=</span><span class="fu">mean</span>(df<span class="sc">$</span>x),<span class="at">size=</span><span class="fl">1.5</span>,</span>
-<span id="cb14-22"><a href="#cb14-22" aria-hidden="true" tabindex="-1"></a>                       <span class="at">color =</span><span class="st">'black'</span>)</span></code><button title="Copy to Clipboard" class="code-copy-button"><i class="bi"></i></button></pre></div>
+<div class="cell">
+<div class="sourceCode cell-code" id="cb19"><pre class="sourceCode r code-with-copy"><code class="sourceCode r"><span id="cb19-1"><a href="#cb19-1" aria-hidden="true" tabindex="-1"></a>k <span class="ot">&lt;-</span> <span class="dv">500</span></span>
+<span id="cb19-2"><a href="#cb19-2" aria-hidden="true" tabindex="-1"></a>n <span class="ot">&lt;-</span> <span class="dv">100</span></span>
+<span id="cb19-3"><a href="#cb19-3" aria-hidden="true" tabindex="-1"></a>RMSE_3 <span class="ot">&lt;-</span> <span class="fu">rep</span>(<span class="dv">0</span>,k) </span>
+<span id="cb19-4"><a href="#cb19-4" aria-hidden="true" tabindex="-1"></a></span>
+<span id="cb19-5"><a href="#cb19-5" aria-hidden="true" tabindex="-1"></a><span class="cf">for</span> (i <span class="cf">in</span> <span class="dv">1</span><span class="sc">:</span>k) {</span>
+<span id="cb19-6"><a href="#cb19-6" aria-hidden="true" tabindex="-1"></a>  <span class="co">#print(i)</span></span>
+<span id="cb19-7"><a href="#cb19-7" aria-hidden="true" tabindex="-1"></a>  p1 <span class="ot">=</span> <span class="fu">spsample</span>(<span class="fu">as_Spatial</span>(np_boundary),<span class="at">n=</span>n,<span class="at">type=</span><span class="st">'regular'</span>)</span>
+<span id="cb19-8"><a href="#cb19-8" aria-hidden="true" tabindex="-1"></a>  <span class="fu">crs</span>(p1)<span class="ot">&lt;-</span><span class="fu">crs</span>(dif)</span>
+<span id="cb19-9"><a href="#cb19-9" aria-hidden="true" tabindex="-1"></a>  error<span class="ot">&lt;-</span><span class="fu">over</span>(p1,dif)<span class="sc">$</span>layer</span>
+<span id="cb19-10"><a href="#cb19-10" aria-hidden="true" tabindex="-1"></a>  RMSE_3[i] <span class="ot">&lt;-</span> <span class="fu">sqrt</span>(<span class="fu">mean</span>((error)<span class="sc">^</span><span class="dv">2</span>,<span class="at">na.rm=</span>T))</span>
+<span id="cb19-11"><a href="#cb19-11" aria-hidden="true" tabindex="-1"></a>}</span>
+<span id="cb19-12"><a href="#cb19-12" aria-hidden="true" tabindex="-1"></a></span>
+<span id="cb19-13"><a href="#cb19-13" aria-hidden="true" tabindex="-1"></a>df_3<span class="ot">&lt;-</span> <span class="fu">data.frame</span>(<span class="at">x=</span>RMSE_3, <span class="at">y=</span><span class="fu">rep</span>(<span class="st">'c'</span>,k))</span>
+<span id="cb19-14"><a href="#cb19-14" aria-hidden="true" tabindex="-1"></a>df<span class="ot">&lt;-</span><span class="fu">rbind</span>(df,df_3)</span>
+<span id="cb19-15"><a href="#cb19-15" aria-hidden="true" tabindex="-1"></a></span>
+<span id="cb19-16"><a href="#cb19-16" aria-hidden="true" tabindex="-1"></a><span class="fu">ggplot</span>(<span class="at">data=</span>df,<span class="fu">aes</span>(<span class="at">x=</span>x, <span class="at">fill=</span>y))<span class="sc">+</span></span>
+<span id="cb19-17"><a href="#cb19-17" aria-hidden="true" tabindex="-1"></a>  <span class="fu">geom_density</span>(<span class="at">alpha=</span><span class="fl">0.5</span>)<span class="sc">+</span></span>
+<span id="cb19-18"><a href="#cb19-18" aria-hidden="true" tabindex="-1"></a>  <span class="fu">scale_fill_discrete</span>(<span class="at">labels=</span><span class="fu">c</span>(<span class="st">'Random, n=50'</span>, <span class="st">'Random, n=100'</span>,<span class="st">'Systematic, n=100'</span>))<span class="sc">+</span></span>
+<span id="cb19-19"><a href="#cb19-19" aria-hidden="true" tabindex="-1"></a>  <span class="fu">xlab</span>(<span class="st">'RMSE'</span>)<span class="sc">+</span><span class="fu">geom_vline</span>(<span class="at">xintercept=</span>RMSE_pop,<span class="at">size=</span><span class="fl">1.5</span>,</span>
+<span id="cb19-20"><a href="#cb19-20" aria-hidden="true" tabindex="-1"></a>                          <span class="at">color =</span><span class="st">'black'</span>, <span class="at">linetype=</span><span class="st">'longdash'</span>)<span class="sc">+</span></span>
+<span id="cb19-21"><a href="#cb19-21" aria-hidden="true" tabindex="-1"></a>  <span class="fu">geom_vline</span>(<span class="at">xintercept=</span><span class="fu">mean</span>(df<span class="sc">$</span>x),<span class="at">size=</span><span class="fl">1.5</span>,</span>
+<span id="cb19-22"><a href="#cb19-22" aria-hidden="true" tabindex="-1"></a>                       <span class="at">color =</span><span class="st">'black'</span>)</span></code><button title="Copy to Clipboard" class="code-copy-button"><i class="bi"></i></button></pre></div>
 <div class="cell-output-display">
 <p><img src="02_ValidationDataCollection_files/figure-html/SystematicSimlation-1.png" class="img-fluid" width="672"></p>
 </div>
